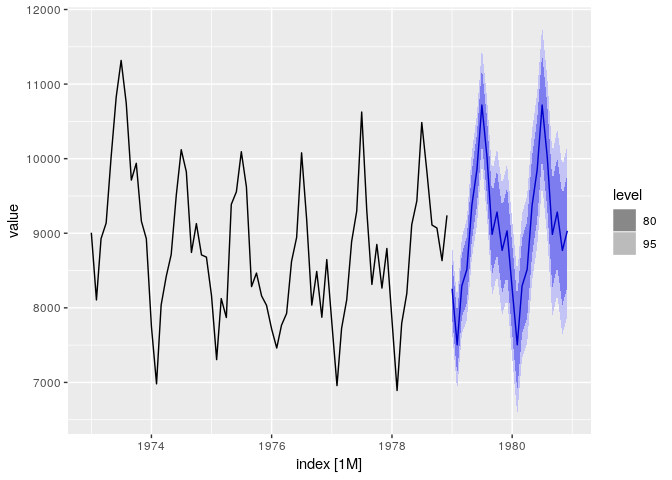
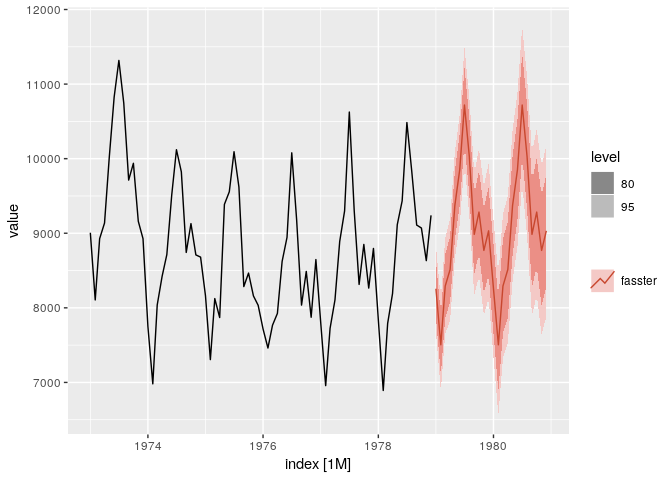
Updated README

diff --git a/README.md b/README.md
@@ -59,13 +59,10 @@ specify the model structure with standard formula conventions.
 
 ``` r
 fit <- tsibbledata::UKLungDeaths %>%
-  FASSTER(fdeaths ~ mdeaths)
+  model(fasster = FASSTER(fdeaths ~ mdeaths))
 
 fit %>% summary
-#> FASSTER Model:
-#>  fdeaths ~ mdeaths 
-#> 
-#> Estimated variances:
+#> FASSTER ModelEstimated variances:
 #>  State noise variances (W):
 #>   mdeaths
 #>    1.7119e-34
@@ -91,12 +88,9 @@ can use:
 ``` r
 fit <- USAccDeaths %>% 
   as_tsibble %>% 
-  FASSTER(value ~ poly(1) + trig(12))
+  model(fasster = FASSTER(value ~ poly(1) + trig(12)))
 fit %>% summary
-#> FASSTER Model:
-#>  value ~ poly(1) + trig(12) 
-#> 
-#> Estimated variances:
+#> FASSTER ModelEstimated variances:
 #>  State noise variances (W):
 #>   poly(1)
 #>    5.9382e+03
@@ -110,17 +104,17 @@ fit %>% summary
 The interface for creating a FASSTER model introduces a new formula
 construct, `%S%`, known as the switch operator. This allows modelling of
 more complex patterns such as multiple seasonality by modelling the
-components for each group seperately and switching between them.
+components for each group separately and switching between them.
 
 ``` r
 elec_tr <- tsibbledata::elecdemand %>%
   dplyr::filter(index < lubridate::ymd("2014-03-01"))
 
 elec_fit <- elec_tr %>%
-  fasster(
-    log(Demand) ~ 
-      WorkDay %S% (trig(48, 16) + poly(1)) + 
-      Temperature + I(Temperature^2)
+  model(
+    fasster = fasster(log(Demand) ~ 
+      WorkDay %S% (trig(48, 16) + poly(1)) + Temperature + I(Temperature^2)
+    )
   )
 ```
 
@@ -136,38 +130,40 @@ These components can accessed from a fitted model using the
 ``` r
 fit %>% 
   components
-#> # A tsibble: 72 x 3 [1M]
-#>       index `poly(1)` `trig(12)`
-#>       <mth>     <dbl>      <dbl>
-#>  1 1973 Jan     9740.     -795. 
-#>  2 1973 Feb     9754.    -1546. 
-#>  3 1973 Mar     9719.     -758. 
-#>  4 1973 Apr     9706.     -536. 
-#>  5 1973 May     9693.      322. 
-#>  6 1973 Jun     9694.      802. 
-#>  7 1973 Jul     9830.     1669. 
-#>  8 1973 Aug     9755.      974. 
-#>  9 1973 Sep     9761.      -65.7
-#> 10 1973 Oct     9768.      233. 
+#> # A tsibble: 72 x 4 [1M]
+#> # Key:       .model [1]
+#>    .model     index `poly(1)` `trig(12)`
+#>    <chr>      <mth>     <dbl>      <dbl>
+#>  1 fasster 1973 Jan     9740.     -795. 
+#>  2 fasster 1973 Feb     9754.    -1546. 
+#>  3 fasster 1973 Mar     9719.     -758. 
+#>  4 fasster 1973 Apr     9706.     -536. 
+#>  5 fasster 1973 May     9693.      322. 
+#>  6 fasster 1973 Jun     9694.      802. 
+#>  7 fasster 1973 Jul     9830.     1669. 
+#>  8 fasster 1973 Aug     9755.      974. 
+#>  9 fasster 1973 Sep     9761.      -65.7
+#> 10 fasster 1973 Oct     9768.      233. 
 #> # ... with 62 more rows
 ```
 
 ``` r
 elec_fit %>%
   components
-#> # A tsibble: 2,832 x 7 [30m]
-#>    index               `I(Temperature^… Temperature `WorkDay_0/poly…
-#>    <dttm>                         <dbl>       <dbl>            <dbl>
-#>  1 2014-01-01 00:00:00         0.000512     -0.0189             1.55
-#>  2 2014-01-01 00:30:00         0.000512     -0.0189             1.55
-#>  3 2014-01-01 01:00:00         0.000512     -0.0189             1.55
-#>  4 2014-01-01 01:30:00         0.000512     -0.0189             1.55
-#>  5 2014-01-01 02:00:00         0.000510     -0.0188             1.55
-#>  6 2014-01-01 02:30:00         0.000509     -0.0186             1.54
-#>  7 2014-01-01 03:00:00         0.000510     -0.0187             1.54
-#>  8 2014-01-01 03:30:00         0.000509     -0.0187             1.53
-#>  9 2014-01-01 04:00:00         0.000521     -0.0195             1.54
-#> 10 2014-01-01 04:30:00         0.000505     -0.0184             1.52
+#> # A tsibble: 2,832 x 8 [30m] <UTC>
+#> # Key:       .model [1]
+#>    .model index               `I(Temperature^… Temperature `WorkDay_0/poly…
+#>    <chr>  <dttm>                         <dbl>       <dbl>            <dbl>
+#>  1 fasst… 2014-01-01 00:00:00         0.000512     -0.0189             1.55
+#>  2 fasst… 2014-01-01 00:30:00         0.000512     -0.0189             1.55
+#>  3 fasst… 2014-01-01 01:00:00         0.000512     -0.0189             1.55
+#>  4 fasst… 2014-01-01 01:30:00         0.000512     -0.0189             1.55
+#>  5 fasst… 2014-01-01 02:00:00         0.000510     -0.0188             1.55
+#>  6 fasst… 2014-01-01 02:30:00         0.000509     -0.0186             1.54
+#>  7 fasst… 2014-01-01 03:00:00         0.000510     -0.0187             1.54
+#>  8 fasst… 2014-01-01 03:30:00         0.000509     -0.0187             1.53
+#>  9 fasst… 2014-01-01 04:00:00         0.000521     -0.0195             1.54
+#> 10 fasst… 2014-01-01 04:30:00         0.000505     -0.0184             1.52
 #> # ... with 2,822 more rows, and 3 more variables: `WorkDay_0/trig(48,
 #> #   16)` <dbl>, `WorkDay_1/poly(1)` <dbl>, `WorkDay_1/trig(48, 16)` <dbl>
 ```
@@ -187,7 +183,8 @@ library(fable)
 
 fit %>% 
   forecast(h=24) %>%
-  autoplot
+  autoplot(as_tsibble(USAccDeaths))
+#> Selecting index: "index"
 ```
 
 ![](man/figure/forecast-1.png)
@@ -202,8 +199,8 @@ elec_ts <- tsibbledata::elecdemand %>%
          index < lubridate::ymd("2014-04-01")) %>% 
   select(-Demand)
 elec_fit %>% 
-  forecast(newdata = elec_ts) %>% 
-  autoplot
+  forecast(new_data = elec_ts) %>% 
+  autoplot(elec_tr)
 ```
 
 ![](man/figure/complex_fc-1.png)
